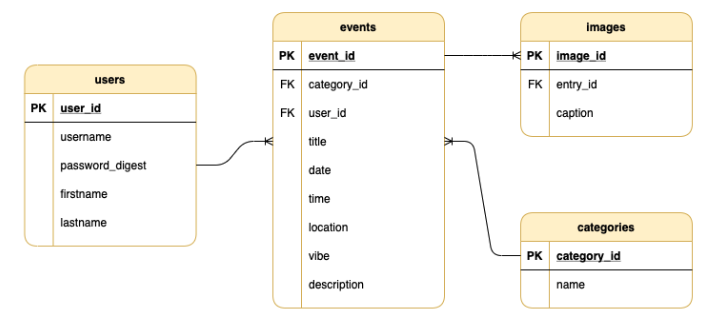
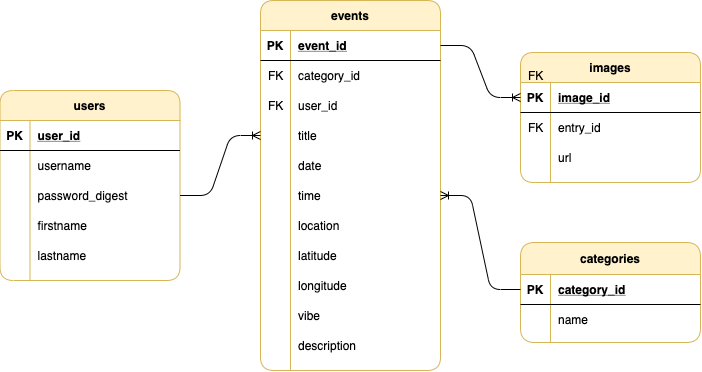
update Api::V1::UsersController and README

diff --git a/app/controllers/api/v1/users_controller.rb b/app/controllers/api/v1/users_controller.rb
@@ -21,27 +21,6 @@ class Api::V1::UsersController < ApplicationController
         end 
     end 
 
-    # def show 
-    #     user = User.find_by(id: params[:id])
-
-    #     if user
-    #         render json: UserSerializer.new(user)
-    #     else 
-    #         render json: { message: 'User not found.' }
-    #     end 
-    # end 
-
-    # def update 
-    #     user = User.find_by(id: params[:id])
-    #     user.update(user_params)
-
-    #     if user.save
-    #         render json: user 
-    #     else 
-    #         render json: { message: 'User not saved.'}
-    #     end 
-    # end 
-
     private
 
         def user_params

diff --git a/README.md b/README.md
@@ -32,6 +32,12 @@ Welcome to my simplistic version of digital journaling app.<br>
 
 <br>
 
+<div align="center">
+  <img src="public/images/components.png">
+</div>
+
+<br>
+
 **Models** <br>
 User, Event, Category, Image<br>
 
@@ -47,13 +53,14 @@ User, Event, Category, Image<br>
 
 **Controller** <br>
 ApplicationController<br>
-UsersController<br>
-EventsController<br>
-CategoriesController<br>
-ImagesController<br>
+Api::V1::AuthController<br>
+Api::V1::CategoriesController<br>
+Api::V1::EventsController<br>
+Api::V1::ImagesController<br>
+Api::V1::UsersController<br>
 
 **User Account and Validation** <br>
-JWT Authentication: Log In, Log Out, Sign Up.<br>
+JWT Authentication: Sign Up, Log In and Log Out.<br>
 
 ## API Database
 
@@ -83,7 +90,7 @@ Open Chrome browser, and redirect to 'http://localhost:3000' to start the app.
 
 ## Build Status and Future Improvement
 
-<p>Current project-built was completed in a 2-week timeframe from model association development, MVP for user interface and Material UI implementation. Future cycle of product development as follows:</p>
+<p>Storybook was completed in 2-week timeframe from implementing Rails back-end, ReactJS front-end, Cloudinary API, Google Maps API and Material-UI library. Future cycle of product development as follows:</p>
 
 - [x]
 - [x]
